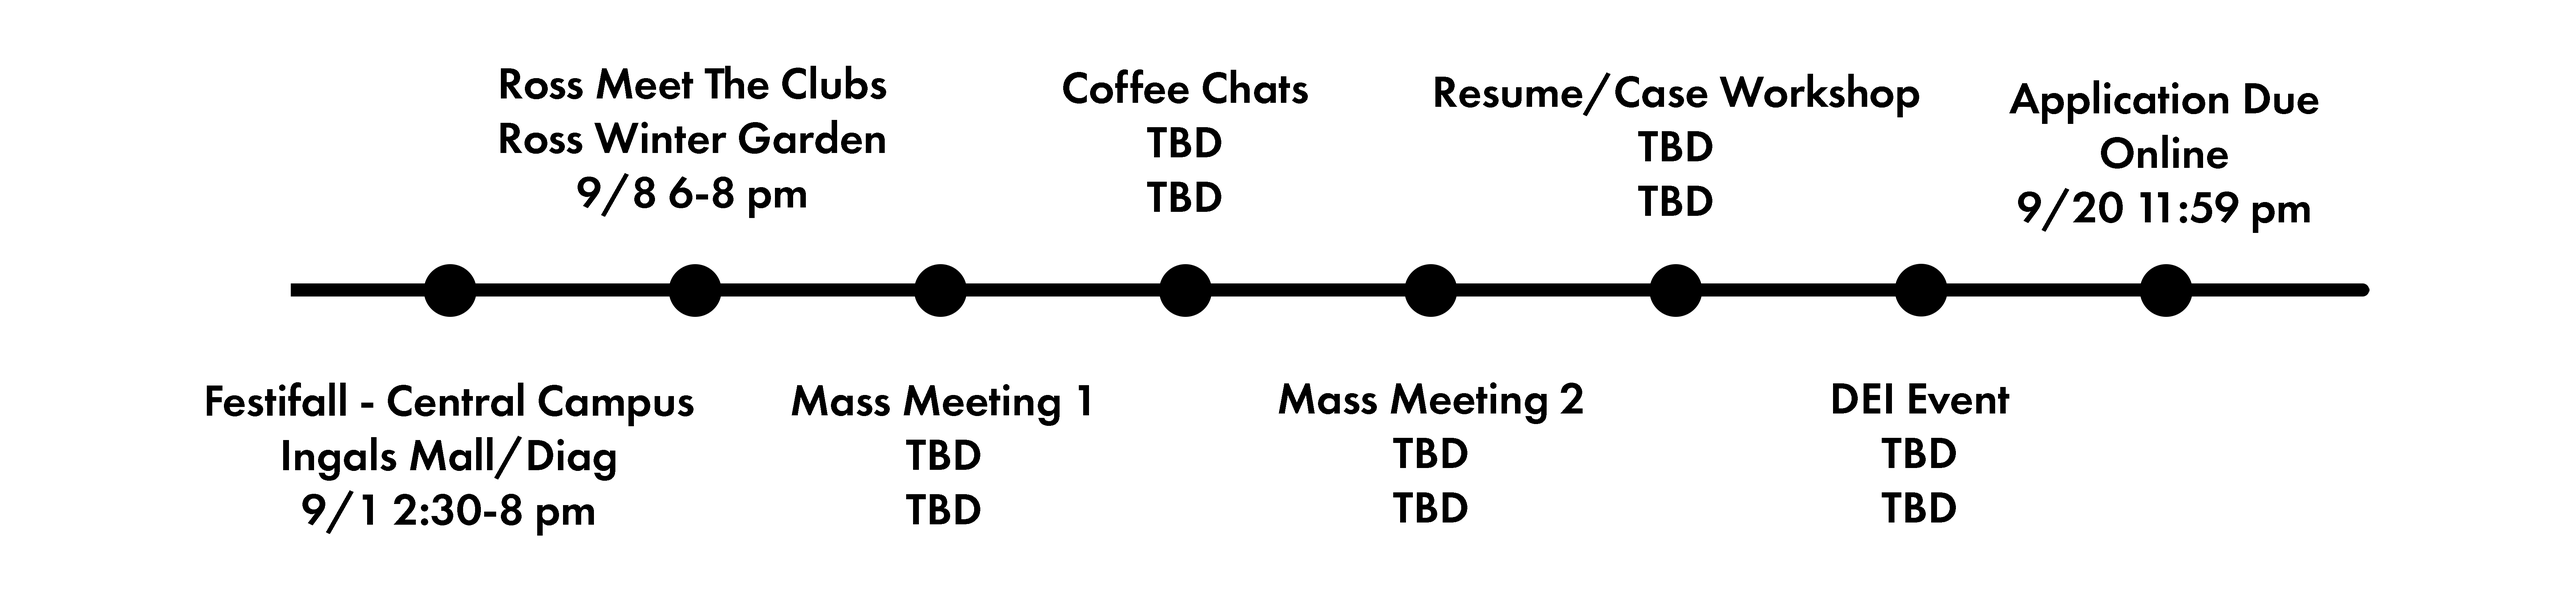
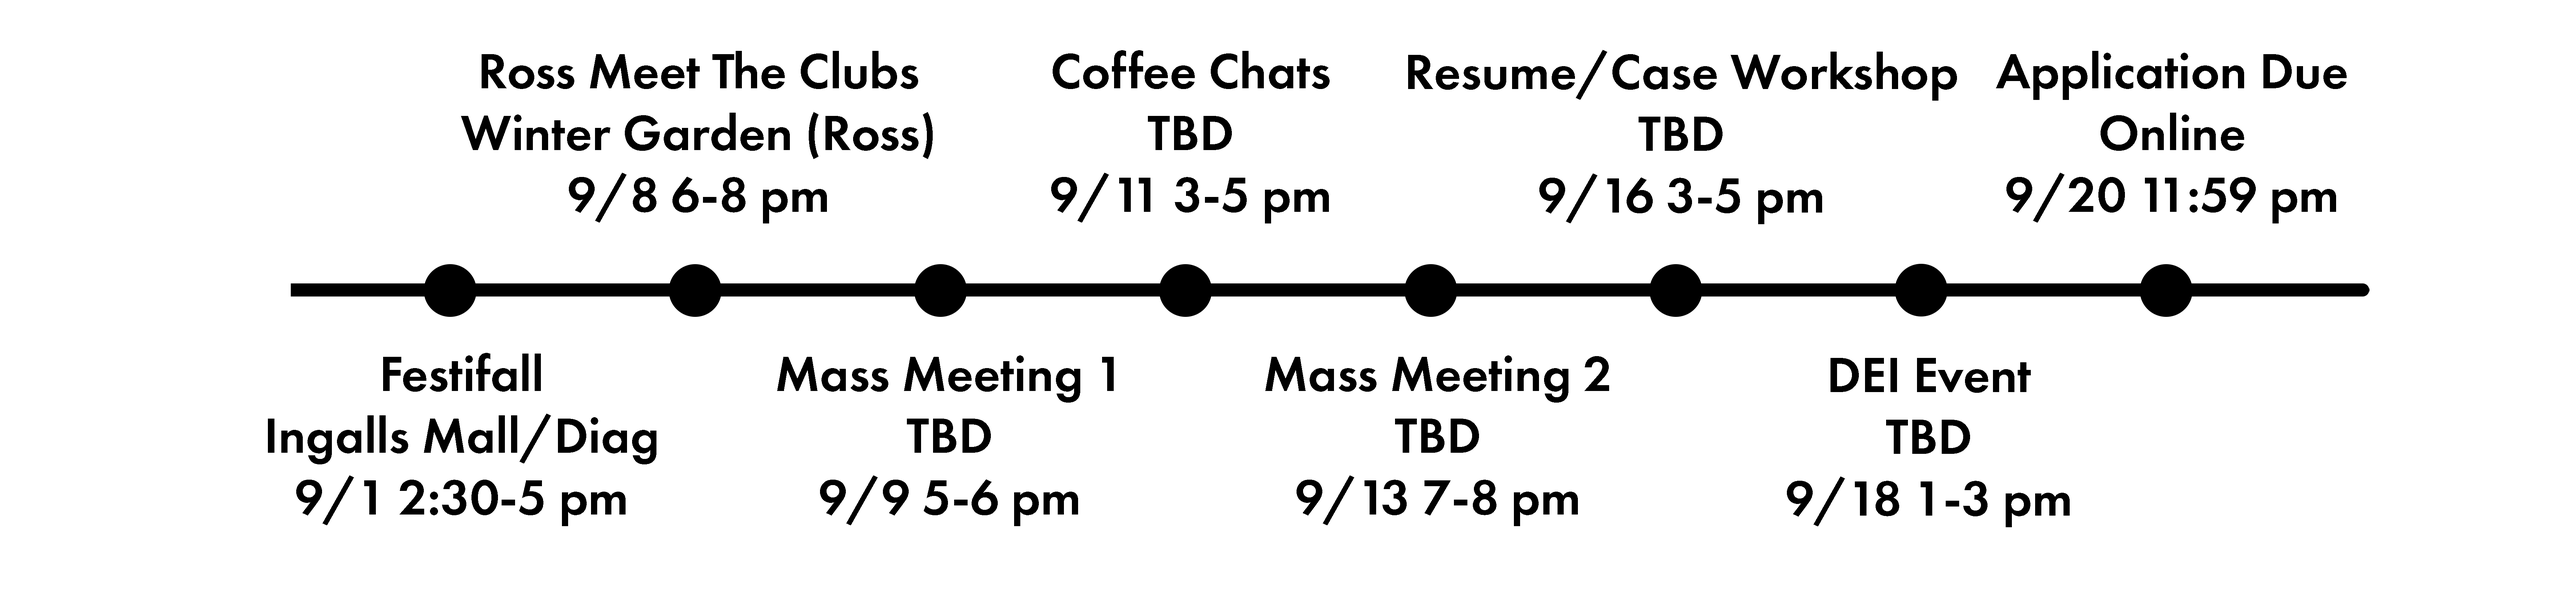
application updates

diff --git a/src/Components/Application/MenuSection.js b/src/Components/Application/MenuSection.js
@@ -225,11 +225,11 @@ const SoonContainer = styled.div`
 
 function MenuSection() {
 
-    const eventDates = ["8/30/2022, 2:30:00 PM","9/1/2022, 8:30 PM","9/8/2022, 8:00 PM", "9/9/2022, 11:59 PM", "9/11/2022, 11:59 PM", "9/14/2022, 11:59 PM", "9/16/2022, 11:59 PM","9/18/2022, 11:59 PM", "9/20/2022, 11:59 PM" ]
+    const eventDates = ["8/30/2022, 5:00:00 PM","9/1/2022, 5:00 PM","9/8/2022, 8:00 PM", "9/9/2022, 6:00 PM", "9/11/2022, 5:00 PM", "9/13/2022, 8:00 PM", "9/16/2022, 5:00 PM","9/18/2022, 3:00 PM", "9/20/2022, 11:59 PM" ]
     const eventImages = [north, central, ross, mass, coffee, mass, workshop, dei, apply]
     const eventName = ["Festifall North", "Festifall Central", "Ross Meet the Clubs", "Mass Meeting 1", "Coffee Chats", "Mass Meeting 2", "Case/Resume Workshop", "DEI Event", "Application Due"]
     const eventLocation = ["Gerstacker Grove","Ingalls Mall", "Ross Wintergarden", "TBD", "TBD", "TBD", "TBD", "TBD", "Online"]
-    const eventTime = ["8/30 at 2:30 PM","9/1 at 2:30 PM","9/8 at 8:00 PM","TBD","TBD","TBD","TBD","TBD", "9/20 at 11:59 PM"]
+    const eventTime = ["8/30 at 2:30 PM","9/1 at 2:30 PM","9/8 at 6:00 PM","9/9 from 5-6 pm","9/11 from 3-5 pm","9/13 from 7-8 pm","9/16 from 3-5 pm","9/18 from 1-3 pm", "9/20 at 11:59 PM"]
    
 
     function eventDateDetector(){
@@ -297,7 +297,7 @@ function MenuSection() {
                     <TextContainer>
                         <HeaderText>Maximize Your Recruiting Experience</HeaderText>
                         <SmallSpacer/>
-                        <BodyText>Ross club recruiting can be an intimidating experience, but we're here to help you get through it and to help you get the most out of it! Below we have advice and our recruiting philosophy that'll help</BodyText>
+                        <BodyText>Ross club recruiting can be an intimidating experience, but we're here to help you get through it and to help you get the most out of it! Below we have some advice and FAQs that might help you out!</BodyText>
                     </TextContainer>
                 </MoreContainer>
             </CenterContainer>
